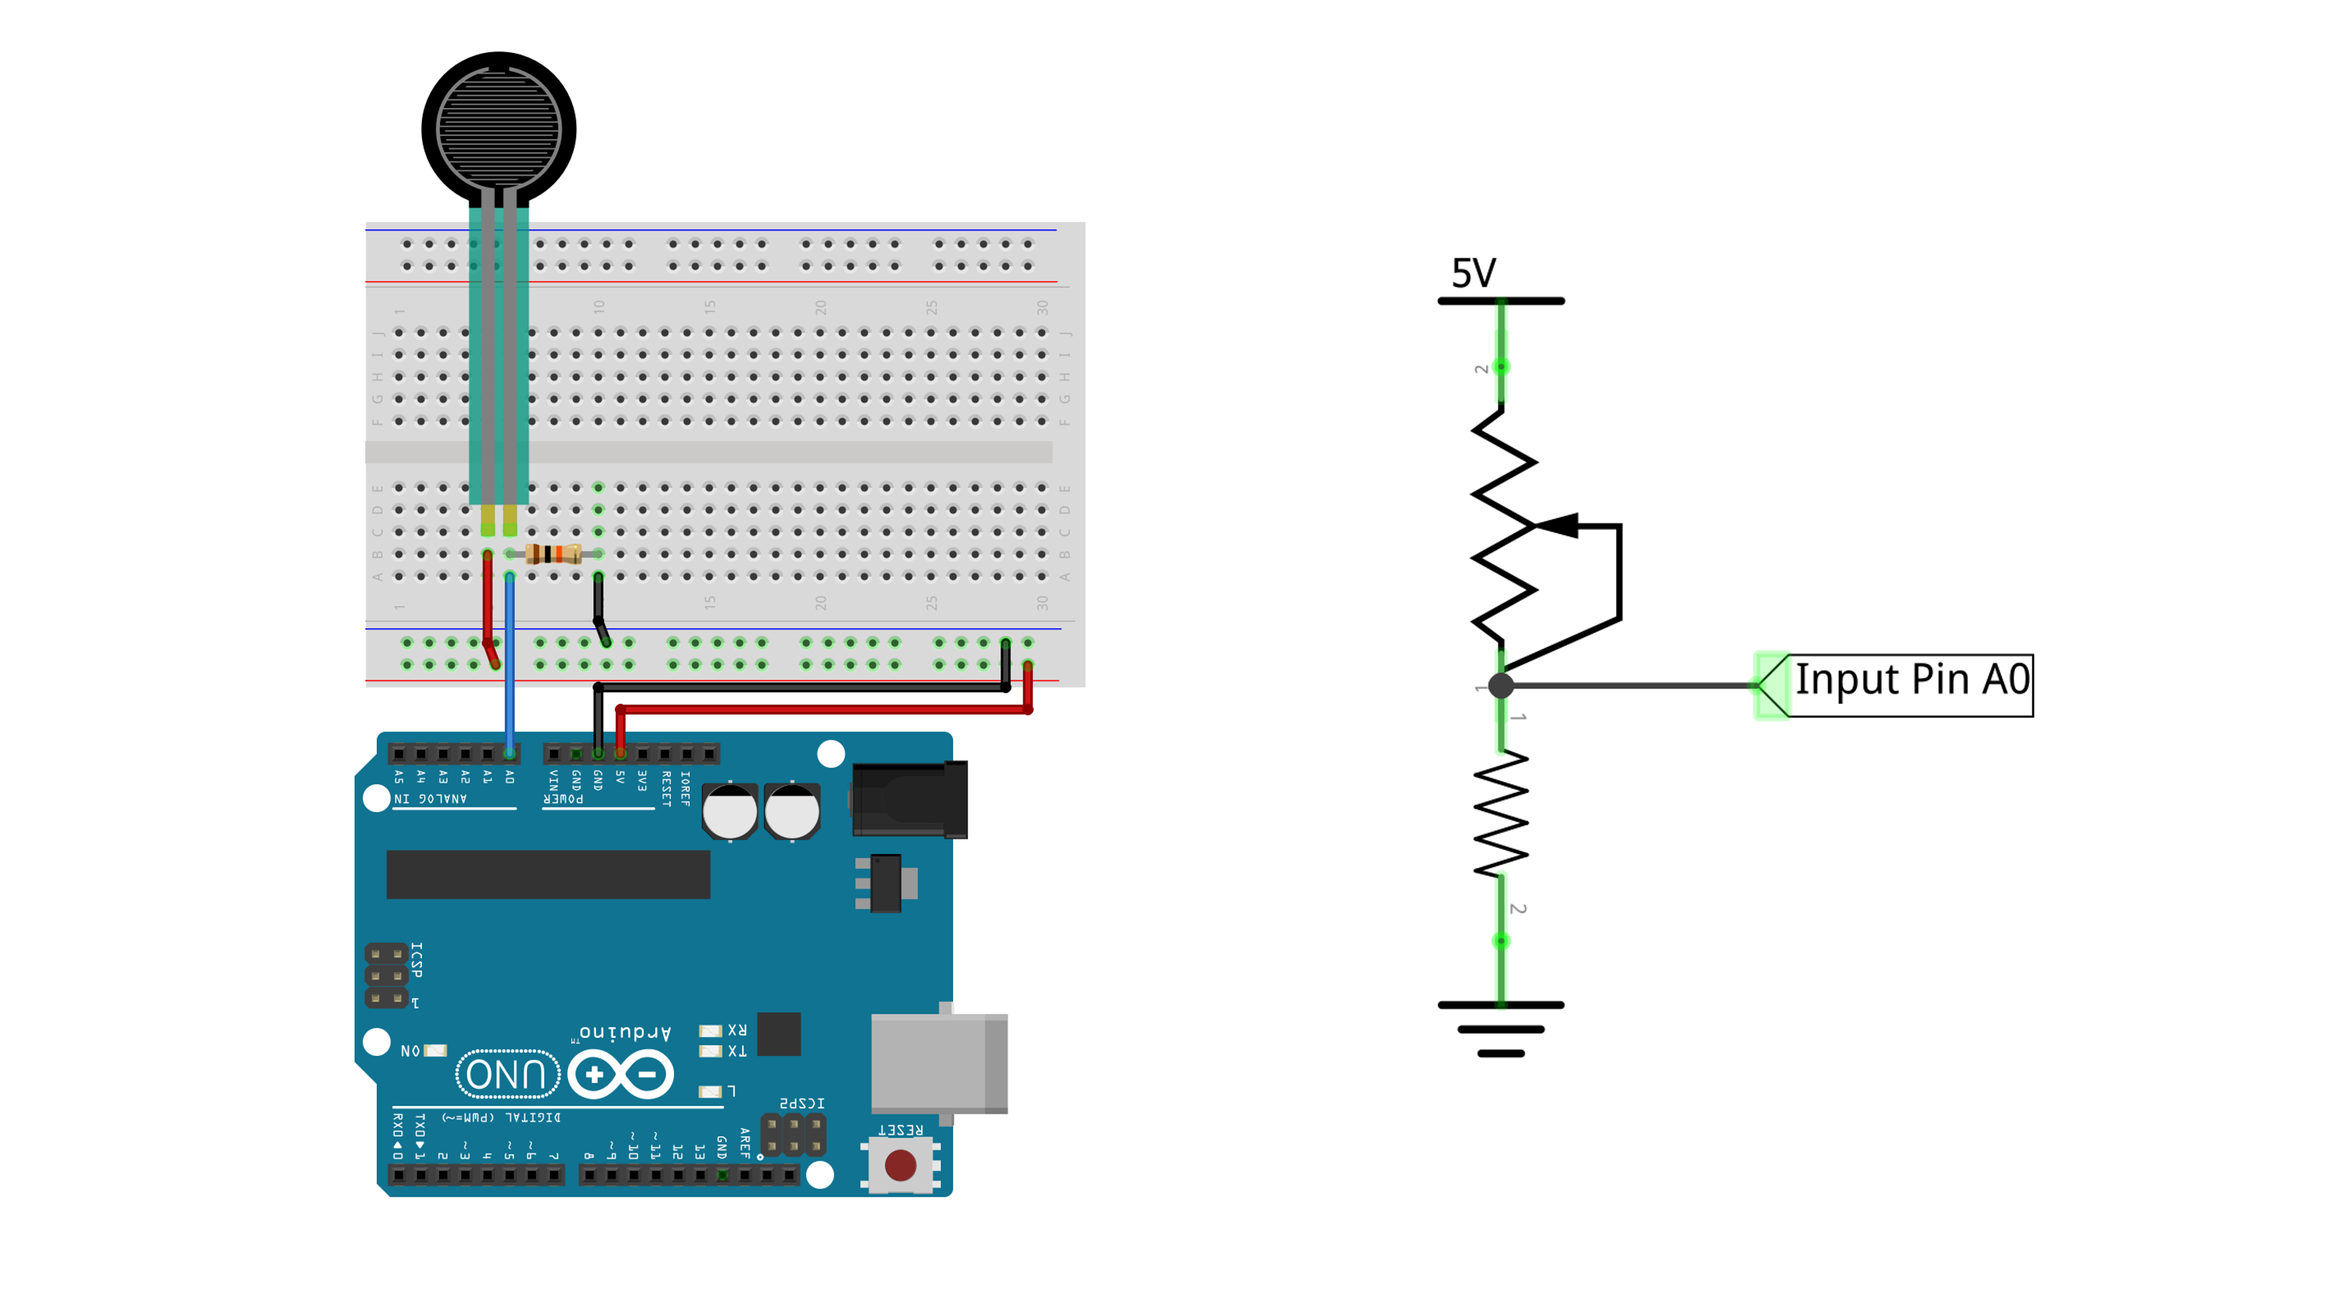
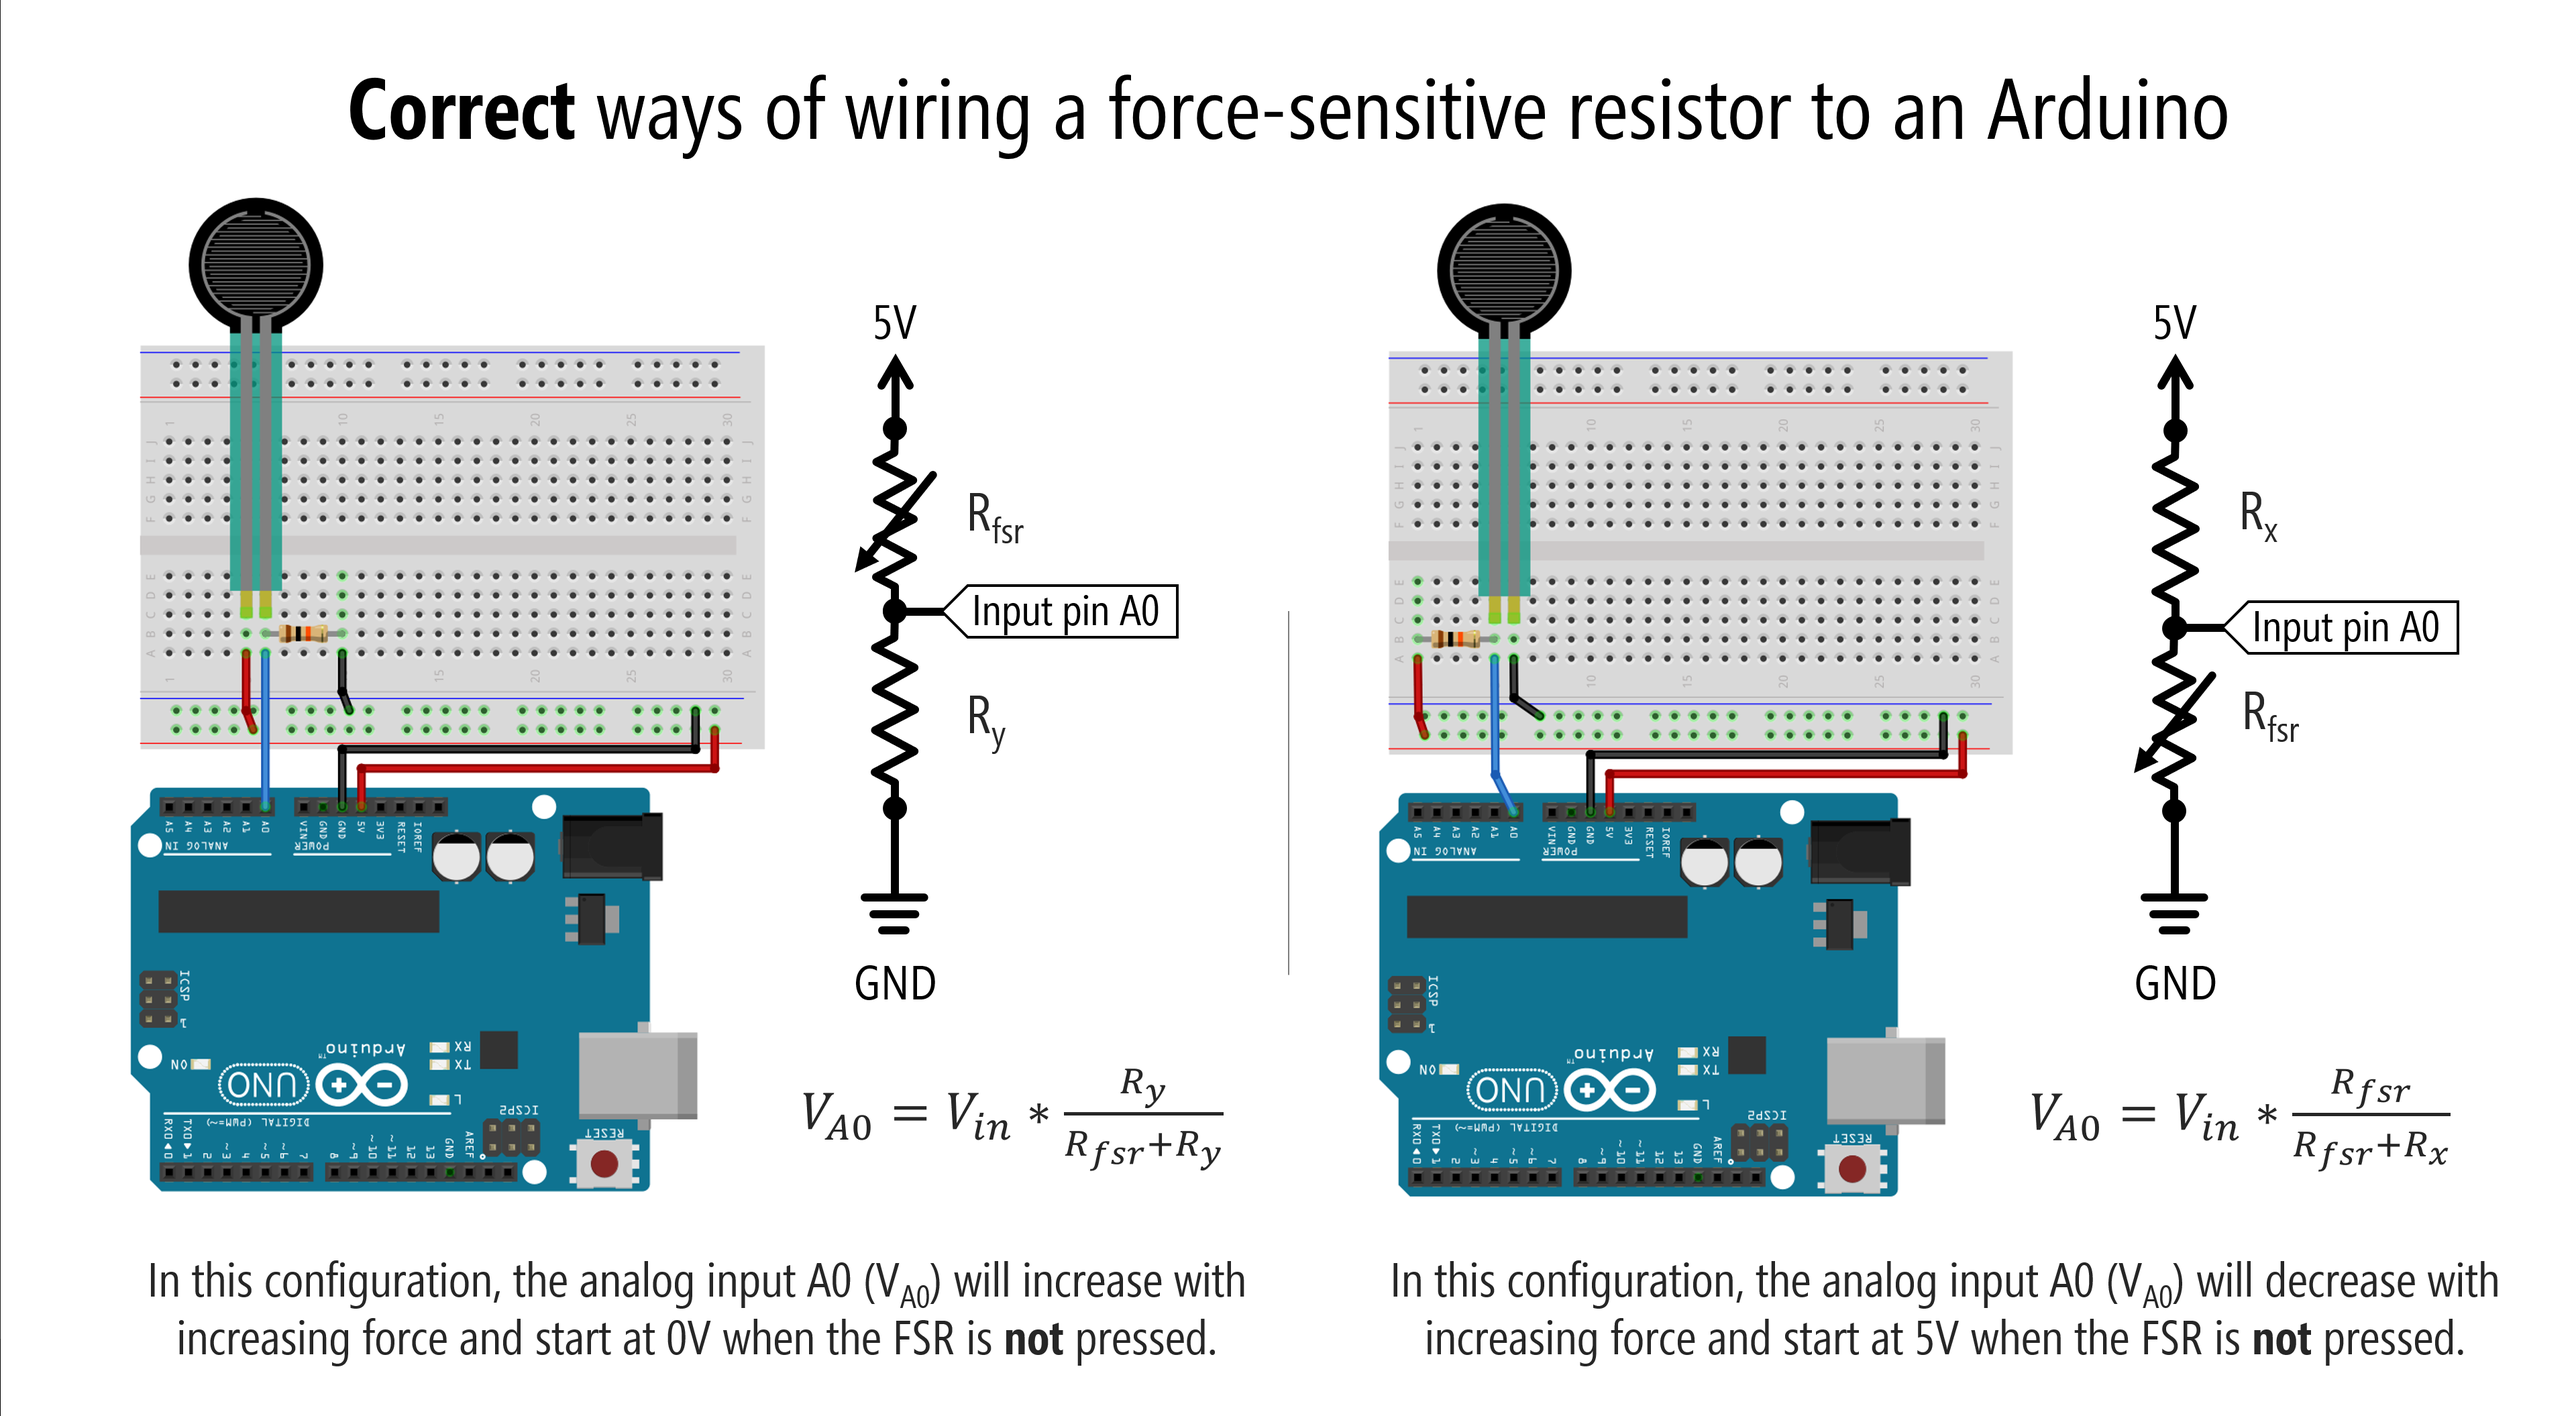
added wiring diagrams and schematics for fsr with arduino

diff --git a/arduino/force-sensitive-resistors.md b/arduino/force-sensitive-resistors.md
@@ -40,7 +40,7 @@ Prices and products from [Sparkfun.com](https://learn.sparkfun.com/tutorials/for
 
 While FSRs respond to force, they are not precision measurement instruments like [load cells](https://learn.sparkfun.com/tutorials/getting-started-with-load-cells) or [strain gauges](https://learn.sparkfun.com/tutorials/getting-started-with-load-cells/strain-gauge-basics), so use those if you want to measure weight, load, or strain.
 
-<!-- TODO: How do FSRs work? Include figure from datasheet -->
+<!-- TODO: How do FSRs work actually work? Include figure from datasheet -->
 
 ### FSR applications
 
@@ -53,6 +53,8 @@ The [FSR 402 datasheet]({{ site.baseurl }}/assets/datasheets/ForceSensitiveResis
 - **Finding centroid of force.** Use multiple sensors to determine centroid of force
 - **Detecting presence, position, or motion** Sense a person/patient in a bed, chair, or medical device
 - **Detecting liquid blockage.** Detect tube or pump occlusion or blockage by measuring back pressure
+
+<!-- TODO: in future, include papers from HCI and UbiComp with pressure sensors -->
 
 ### FSR force-resistance graph
 
@@ -111,15 +113,30 @@ Workbench video of the FSR LED dimmer circuit
 
 ## Using FSRs with microcontrollers
 
+First, we'll show you the wrong way to hook up an FSR to a microcontroller:
+
+![Incorrect Arduino wiring diagram and schematic for FSR](assets/images/ArduinoUno_FSR_Incorrect_SchematicAndDiagram.png)
+
+Why doesn't this work?
+
+Recall from our [potentiometers](potentiometers.md) lesson, microcontrollers read voltages, not current. We have to setup a circuit that enables our microcontroller to "see" changes in voltages. 
+
+We had to do the same thing with the [potentiometer](potentiometers.md). It would not work when only two legs were used. We had to connect all three potentiometer legs. 
+
 To use an FSR—or any variable resistor—with a microcontroller, you must add a fixed resistor to form a voltage divider like this:
 
 ![Arduino wiring diagram and schematic for FSR](assets/images/ArduinoUno_FSR_SchematicAndDiagram.png)
 
+That fixed resistor is like the third leg. You can also think about this fixed resistor as a pull-up or pull-down resistor for our switch circuits (and, indeed, when the FSR is **not** pressed, it is like an open switch).
+<!-- TODO: how to select the this resistor -->
+
+<!-- Remaining TODOs: writing code to fade LED, talking about map function, write musical code -->
 
 
-### Make your own lo-fi pressure sensor
 
-TODO: show super simple lo-fi pressure sensor out of pencil. Show both alligator clip version and taped jumper wire version.
+<!-- ### Make your own lo-fi pressure sensor
+
+TODO: show super simple lo-fi pressure sensor out of pencil. Show both alligator clip version and taped jumper wire version. -->
 
 ## References
 - [Interlink FSR 402 Data Sheet]({{ site.baseurl }}/assets/datasheets/ForceSensitiveResistor_InterlinkFSR402_2010-10-26-DataSheet-FSR402-Layout2.pdf)
